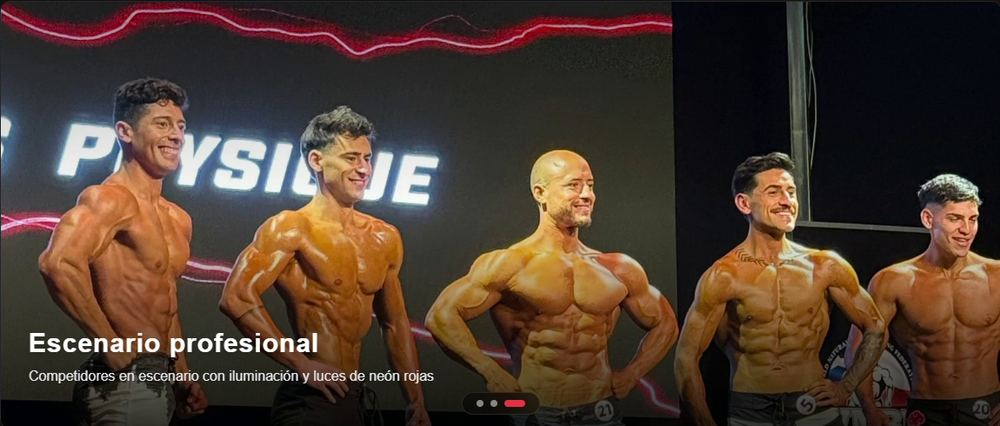
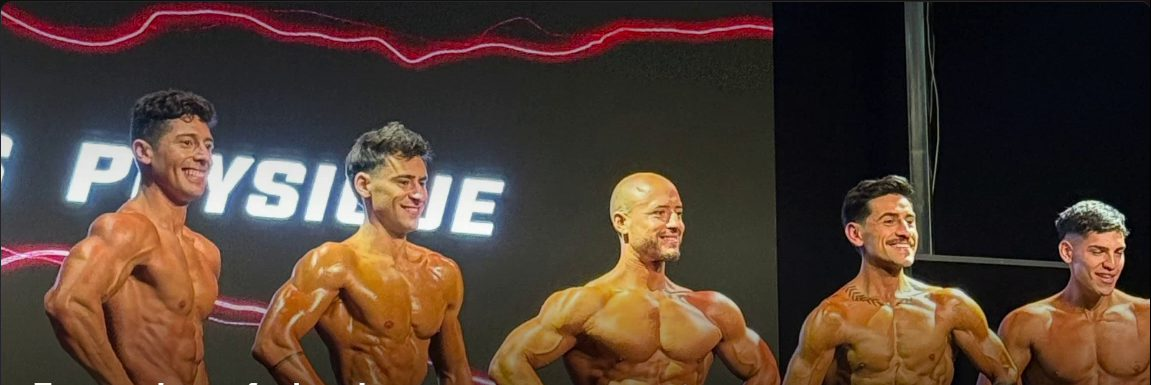
Add files via upload

diff --git a/index.html b/index.html
@@ -40,7 +40,7 @@ h1 .b{color:var(--red);display:block}
 .cta{display:flex;gap:14px;flex-wrap:wrap;margin:28px 0}
 .meta{display:flex;gap:22px;flex-wrap:wrap;font-size:14px;color:#D6DAE3}
 .meta b{color:var(--gold)}
-.pic{border-radius:16px;overflow:hidden;box-shadow:0 0 80px rgba(200,16,46,.28)}
+.pic{position:relative;border-radius:18px;overflow:hidden;border:1px solid #7a1527;box-shadow:0 0 0 7px rgba(200,16,46,.12),0 30px 90px rgba(200,16,46,.45)}.pic::after{content:'';position:absolute;inset:0;background:linear-gradient(180deg,transparent 58%,rgba(0,0,0,.7));pointer-events:none}.chip{position:absolute;left:16px;bottom:16px;z-index:2;background:rgba(0,0,0,.72);border:1px solid var(--gold);color:var(--gold);font-weight:700;font-size:13px;padding:8px 14px;border-radius:999px;backdrop-filter:blur(4px)}
 .pic img{display:block;width:100%;height:auto}
 
 section{padding:88px 0}
@@ -111,6 +111,40 @@ input,select,textarea{font:400 16px var(--f);padding:13px 12px;border:1px solid 
 .il small{display:block;color:var(--mute)}
 footer{border-top:1px solid var(--line);padding:28px 0 calc(28px + env(safe-area-inset-bottom,0px));text-align:center;color:var(--mute);font-size:14px}
 @media(prefers-reduced-motion:reduce){html{scroll-behavior:auto}}
+
+.hero{background:linear-gradient(90deg,rgba(0,0,0,.97) 32%,rgba(0,0,0,.7)),url('stage.jpg') center/cover}
+h1{font-size:clamp(46px,7.4vw,80px);line-height:1.02;letter-spacing:-.02em}
+h1 .b{text-shadow:0 0 40px rgba(200,16,46,.55)}
+.hero .btn:not(.out){box-shadow:0 10px 34px rgba(200,16,46,.5)}
+h2::after{content:'';display:block;width:70px;height:4px;border-radius:4px;background:linear-gradient(90deg,var(--red),var(--gold));margin:16px auto 0}
+.mq{background:var(--red);color:#fff;overflow:hidden;white-space:nowrap;padding:14px 0;font-weight:800;letter-spacing:.14em;font-size:14px;text-transform:uppercase;transform:skewY(-1.2deg);margin:-10px 0 10px}
+.mq div{display:inline-block;animation:mq 28s linear infinite}
+.mq span{margin:0 26px}.mq i{font-style:normal;color:#FFD54A}
+@keyframes mq{to{transform:translateX(-50%)}}
+.st{display:grid;grid-template-columns:repeat(4,1fr);gap:0;padding:56px 0 20px;text-align:center}
+@media(max-width:700px){.st{grid-template-columns:1fr 1fr;row-gap:30px}}
+.st b{display:block;font-size:clamp(40px,6vw,62px);font-weight:800;line-height:1;background:linear-gradient(180deg,#FFE08A,var(--gold) 60%,#B8860B);-webkit-background-clip:text;background-clip:text;color:transparent}
+.st small{color:#D6DAE3;font-size:15px}
+.c,.p,.row{transition:transform .25s,border-color .25s,box-shadow .25s}
+.c:hover,.p:hover{transform:translateY(-6px);border-color:#7a1527;box-shadow:0 16px 40px rgba(200,16,46,.22)}
+.p.hot{transform:scale(1.04);border-color:var(--red);box-shadow:0 0 0 1px var(--red),0 24px 70px rgba(200,16,46,.4)}
+.p.hot:hover{transform:scale(1.04) translateY(-6px)}
+@media(max-width:900px){.p.hot{transform:none}}
+.m.o{box-shadow:0 0 14px rgba(232,176,18,.5)}
+.rv{opacity:0;transform:translateY(28px);transition:opacity .7s,transform .7s}
+.rv.on{opacity:1;transform:none}
+.fab{position:fixed;right:16px;bottom:calc(16px + env(safe-area-inset-bottom,0px));z-index:18;opacity:0;pointer-events:none;transition:opacity .3s;box-shadow:0 10px 30px rgba(0,0,0,.6)}
+.fab.on{opacity:1;pointer-events:auto}
+@media(prefers-reduced-motion:reduce){.mq div{animation:none}.rv{opacity:1;transform:none;transition:none}}
+
+.car{aspect-ratio:6/5}
+.car .sl{position:absolute;inset:0;opacity:0;transition:opacity .9s}
+.car .sl.on{opacity:1}
+.car .sl img{width:100%;height:100%;object-fit:cover}
+.dots{position:absolute;right:16px;bottom:20px;z-index:3;display:flex;gap:8px}
+.dots button{width:11px;height:11px;padding:0;border-radius:50%;border:0;background:rgba(255,255,255,.45);cursor:pointer}
+.dots button.on{background:var(--red);width:28px;border-radius:8px}
+@media(prefers-reduced-motion:reduce){.car .sl{transition:none}}
 </style>
 </head>
 <body>
@@ -126,10 +160,10 @@ footer{border-top:1px solid var(--line);padding:28px 0 calc(28px + env(safe-area
     <h1><span class="a">Transforma tu</span><span class="b">físico natural</span></h1>
     <p>Alcanza tu máximo potencial en el fisiculturismo natural con planes personalizados de entrenamiento y nutrición diseñados por un experto.</p>
     <div class="cta"><a class="btn" href="#planes">Ver planes disponibles →</a><a class="btn out" href="#contacto">Consulta gratuita</a></div>
-    <div class="meta"><span><b>★★★★★</b> 5.0 (200+ reseñas)</span><span>👥 500+ atletas entrenados</span></div>
-  </div>
-  <div class="pic"><img src="hero.jpg" alt="Atletas del team con la pro card WNBF Chile"></div>
+    </div>
+  <div class="pic car" role="group" aria-roledescription="carrusel" aria-label="Fotos del team"><div class="sl on"><img src="hero.jpg" alt="Atletas del team con la pro card WNBF Chile"><span class="chip">🏆 WNBF Chile · Classic Physique PRO</span></div><div class="sl"><img src="slide3.jpg" style="object-position:50% 12%" alt="Atleta del team con su medalla y su entrenador en WNBF Perú"><span class="chip">🏅 WNBF Perú</span></div><div class="dots"><button type="button" class="on" aria-label="Foto 1"></button><button type="button" aria-label="Foto 2"></button></div></div>
 </div></section>
+<div class="mq" aria-hidden="true"><div><span>WNBF</span><i>★</i><span>INBA</span><i>★</i><span>Classic Physique</span><i>★</i><span>Men’s Physique</span><i>★</i><span>Bodybuilding</span><i>★</i><span>100% natural</span><i>★</i><span>WNBF</span><i>★</i><span>INBA</span><i>★</i><span>Classic Physique</span><i>★</i><span>Men’s Physique</span><i>★</i><span>Bodybuilding</span><i>★</i><span>100% natural</span><i>★</i></div></div>
 
 <section id="sobre-mi" style="padding-top:40px"><div class="w">
   <h2>Sobre mí</h2>
@@ -216,6 +250,7 @@ footer{border-top:1px solid var(--line);padding:28px 0 calc(28px + env(safe-area
 </main>
 
 <footer><div class="w">© 2026 JTapiaTeam. Todos los derechos reservados.</div></footer>
+<a class="btn fab" href="#contacto">Agendar reunión gratis</a>
 
 <script>
 var WA="56900000000"; // Reemplazar por el WhatsApp real (código de país + número)
@@ -225,6 +260,23 @@ document.getElementById("f").addEventListener("submit",function(e){
   var m="Hola, quiero agendar una reunión con JTapiaTeam.\nNombre: "+f.n.value+"\nWhatsApp: "+f.w.value+"\nPlan: "+f.p.value+"\nDía: "+f.d.value+" ("+f.h.value+")\nObjetivo: "+(f.o.value||"-");
   window.open("https://wa.me/"+WA+"?text="+encodeURIComponent(m),"_blank","noopener");
 });
+
+(function(){var rm=matchMedia('(prefers-reduced-motion:reduce)').matches;
+var els=document.querySelectorAll('.c,.p,h2,.sub,.stage,.about img,.st>div,form');
+if('IntersectionObserver' in window&&!rm){var io=new IntersectionObserver(function(es){es.forEach(function(x){if(x.isIntersecting){x.target.classList.add('on');io.unobserve(x.target)}})},{threshold:.12});els.forEach(function(e){e.classList.add('rv');io.observe(e)})}
+var cs=document.querySelectorAll('[data-n]');
+function run(el){var n=+el.dataset.n,s=el.dataset.s||'',t0=null;function f(ts){t0=t0||ts;var p=Math.min((ts-t0)/1400,1);el.textContent=Math.round(n*(1-Math.pow(1-p,3)))+s;if(p<1)requestAnimationFrame(f)}requestAnimationFrame(f)}
+if('IntersectionObserver' in window&&!rm){var co=new IntersectionObserver(function(es){es.forEach(function(x){if(x.isIntersecting){run(x.target);co.unobserve(x.target)}})});cs.forEach(function(c){co.observe(c)})}else{cs.forEach(function(c){c.textContent=c.dataset.n+(c.dataset.s||'')})}
+var fab=document.querySelector('.fab');addEventListener('scroll',function(){fab.classList.toggle('on',scrollY>700&&!(document.getElementById('contacto').getBoundingClientRect().top<innerHeight*.6))},{passive:true});
+})();
+
+(function(){var car=document.querySelector('.car');if(!car)return;var sl=car.querySelectorAll('.sl'),ds=car.querySelectorAll('.dots button'),i=0,tm;
+function go(n){i=(n+sl.length)%sl.length;sl.forEach(function(s,k){s.classList.toggle('on',k===i)});ds.forEach(function(d,k){d.classList.toggle('on',k===i)})}
+function start(){if(matchMedia('(prefers-reduced-motion:reduce)').matches)return;stop();tm=setInterval(function(){go(i+1)},5000)}
+function stop(){clearInterval(tm)}
+ds.forEach(function(d,k){d.addEventListener('click',function(){go(k);start()})});
+car.addEventListener('mouseenter',stop);car.addEventListener('mouseleave',start);start();
+})();
 </script>
 </body>
 </html>
